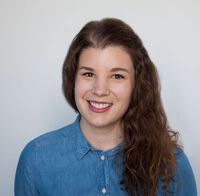
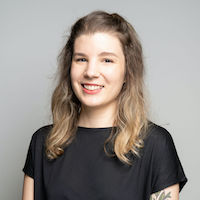
Update Carolyn's bio and photo (#118)

diff --git a/content/people/carolyn-stransky.ts b/content/people/carolyn-stransky.ts
@@ -4,7 +4,7 @@ import Keyword from "../../server/schema/keywords";
 const person: Contact = {
   name: "Carolyn Stransky",
   about:
-    "Carolyn Stransky is a frontend developer and former technical writer based in Berlin. She currently works at Blacklane and teaches at ReDI School of Digital Integration. You’ll usually find her looking at memes or taking selfies in the nearest restroom.",
+    "Carolyn Stransky (she/her) is a software developer and journalist based in Berlin, Germany. Her work focuses on creating acccessible, user-centric interfaces. Out of the office, she tries to convince everyone that documentation is cool while also maintaining an admittedly ridiculous skincare routine. You can find her most places on the Internet @carolstran.",
   image: {
     url: "people/carolyn.jpg",
   },
